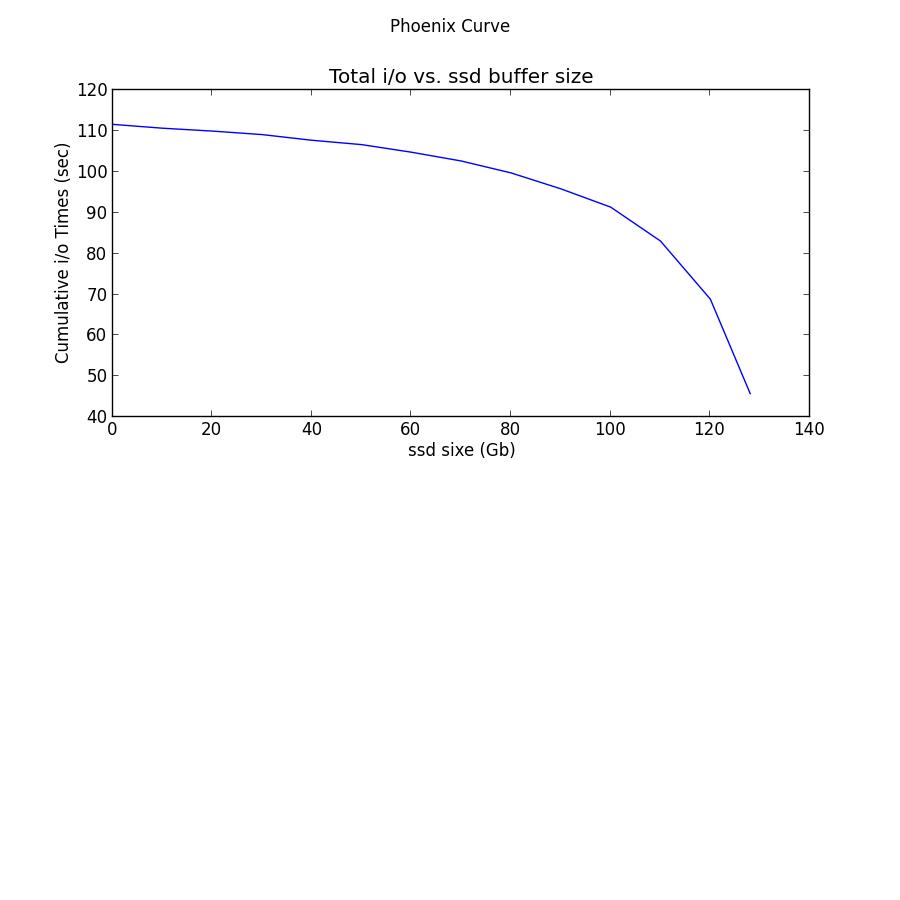
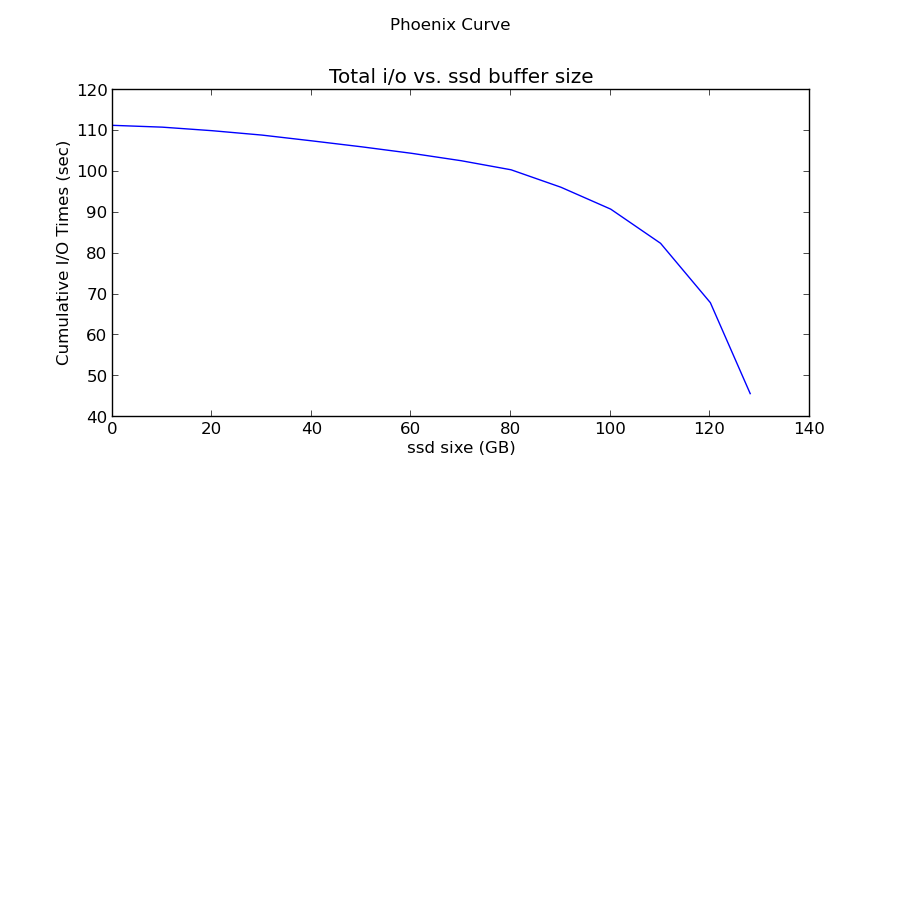
added a function to plot a graph for real data

diff --git a/Simulator.py b/Simulator.py
@@ -10,6 +10,17 @@
 from Tracer import *
 from VirtualEnvironment import *
 
+   
+class PhoenixConfiguration:
+    def __init__(self, budget, sizes):
+        """
+            budget : dollar amount for this configuration
+            sizes : <List> of <Tuple>s of HDD_SIZE and SSD_SIZE
+                e.g. sizes = [ ( 0, 128), (1024, 0), ... ]
+        """
+        self.budget = budget
+        self.sizes = sizes
+
 class Simulator:
     def __init__(self, traces, env):
         """
@@ -44,19 +55,6 @@ class Simulator:
         print "Analyzing the result of the simulation"
         self.env.reporter.display_results()
 
-def generate_phoenix_curve_plot(io_time,ssd_sizes):
-    fig = plt.figure(figsize=(9,9))
-    fig.suptitle("Phoenix Curve")
-    io_time_plot = fig.add_subplot(2,1,1)
-    io_time_plot.set_title("Total i/o vs. ssd buffer size")
-    io_time_plot.set_xlabel("ssd sixe (Gb)")
-    io_time_plot.set_ylabel("Cumulative i/o Times (sec)")
-    print(len(io_time) )
-    print(len(ssd_sizes) )
-    io_time_plot.plot(ssd_sizes,io_time)
-    plt.savefig("phoenix_curve.png")
-
-
 def Compare(filename, reporters):
 
         fig = plt.figure(figsize=(9,9))
@@ -82,8 +80,20 @@ def Compare(filename, reporters):
         reads.legend()
         plt.savefig(filename)
 
+def generate_phoenix_curve_plot(io_time, ssd_sizes):
+    fig = plt.figure(figsize=(9,9))
+    fig.suptitle("Phoenix Curve")
+    io_time_plot = fig.add_subplot(2,1,1)
+    io_time_plot.set_title("Total I/O vs. ssd buffer size")
+    io_time_plot.set_xlabel("ssd size (GB)")
+    io_time_plot.set_ylabel("Cumulative I/O Times (sec)")
+    print(len(io_time) )
+    print(len(ssd_sizes) )
+    io_time_plot.plot(ssd_sizes,io_time)
+    plt.savefig("phoenix_curve.png")
+
 def phoenix_curve_study(traces):
-    pd_io_times = []   
+    pd_io_times = []
     # Initiate Simulators
     ssd_max_size = 128
     hdd_max_size = 1024
@@ -102,6 +112,68 @@ def phoenix_curve_study(traces):
     print(len(ssd_sizes) )
     generate_phoenix_curve_plot(pd_io_times,ssd_sizes)
 
+
+def generate_phoenix_curve_plot_with_real_data(list_io_speeds, pcs):
+    """
+        pd_io_speeds : <List> of <io_speeds>
+        pc : An instance of <PhoenixConfiguration>
+    """
+    
+    filename = 'PhoenixCurve_RealData.png'
+
+    fig = plt.figure(figsize=(9,6))
+    fig.suptitle("Phoenix Curve with Real Data (given David's Traces)")
+
+    io_time_plot = fig.add_subplot(1,1,1)
+    io_time_plot.set_title("Average I/O Speed vs. Total Disk Size (SSD + HDD)")
+    io_time_plot.set_xlabel("Disk Size (SSD + HDD) (GB)")
+    io_time_plot.set_ylabel("Average I/O Speed (# of I/O Operations per ms)")
+    io_time_plot.hold(True)
+    
+    for i in range(len(pcs)):
+        pc = pcs[i]
+        pd_io_speeds = list_io_speeds[i]
+        total_sizes = [pc_size[0] + pc_size[1] for pc_size in pc.sizes]
+        
+        print("Length of io_time array:", len(pd_io_speeds) )
+        print("Length of total_sizes array:", len(total_sizes) )
+        io_time_plot.plot( total_sizes, pd_io_speeds, label="Budget: $%s" % pc.budget )
+    io_time_plot.legend()
+    plt.savefig(filename)
+
+def phoenix_curve_study_with_real_data(traces):
+    """
+        phoenix_configurations : <List> of <PhoenixConfigration>s
+        * Please refer to the <PhoenixConfiguration> class definition above.
+    """
+    pc1 = PhoenixConfiguration(100, [ (0, 128), (300, 64), (1024, 0) ])
+    pc2 = PhoenixConfiguration(300, [ (0, 160), (1024, 240), (3000, 0) ])
+    pc3 = PhoenixConfiguration(500, [ (0, 480), (2000, 160), (4000, 0) ])
+    pcs = [pc1, pc2, pc3]
+    list_io_speeds = []
+
+    for pc in pcs:
+        pd_io_speeds = []
+        print("Running for Phoneix Configuration with Budget %s" % pc.budget)
+        for size in pc.sizes:
+            hdd_size = size[0]
+            ssd_size = size[1]
+            print("Initializing simulators")
+            pd_simulator = Simulator( traces, PD(hdd_size, ssd_size) )
+            print("Running Phoenix Drive")
+            pd_simulator.Simulate()
+            print("Saving Results")
+
+            # Average Speed = (# of i/o Operations) / (# of Total Cumulative I/O Time in miliseconds)
+            speed = pd_simulator.env.reporter.total_num_activity / float(pd_simulator.env.reporter.total_io_time) / 1000.0
+            pd_io_speeds.append(speed)
+        print(len(pd_io_speeds) )
+        print(len(pc.sizes) )
+        list_io_speeds.append( pd_io_speeds )
+        
+    generate_phoenix_curve_plot_with_real_data(list_io_speeds, pcs)
+    
+    
 def drive_type_comparitive_study(traces):
      # Initiate Simulators
     hdd_simulator = Simulator( traces, HDD(1024) )
@@ -131,8 +203,9 @@ if __name__ == '__main__':
 
     traces = [trace1]
 
-    drive_type_comparitive_study(traces)
+    # drive_type_comparitive_study(traces)
     # phoenix_curve_study(traces)
+    phoenix_curve_study_with_real_data(traces)
 
     
     

diff --git a/VirtualEnvironment.py b/VirtualEnvironment.py
@@ -12,6 +12,7 @@ import matplotlib.pyplot as plt
 
 class Reporter:
     def __init__(self, drive_type):
+        self.total_num_activity = 0
         self.total_io_time = 0
         self.read_time = 0
         self.write_time = 0
@@ -72,7 +73,6 @@ class VirtualEnvironment:
         if activity.access_type == 'R':
             io_duration = self.ReadFile(activity.size)
             self.reporter.read_time += io_duration
-            self.reporter.total_io_time += io_duration
             self.reporter.read_durations.append(io_duration)
             self.reporter.read_durations_cumulative.append(self.reporter.read_time)
             self.reporter.read_start_times.append(io_start_time)
@@ -80,7 +80,6 @@ class VirtualEnvironment:
         elif activity.access_type == 'W':
             io_duration = self.WriteFile(activity.size)
             self.reporter.write_time += io_duration
-            self.reporter.total_io_time += io_duration
             self.reporter.write_durations.append(io_duration)
             self.reporter.write_durations_cumulative.append(self.reporter.write_time)
             self.reporter.write_start_times.append(io_start_time)
@@ -88,6 +87,10 @@ class VirtualEnvironment:
         else:
             # NEED TO HANDLE ERROR HERE
             pass
+
+        # For any activity type
+        self.reporter.total_io_time += io_duration
+        self.reporter.total_num_activity += 1
 
     def ReadFile(self, file_size):
         pass
